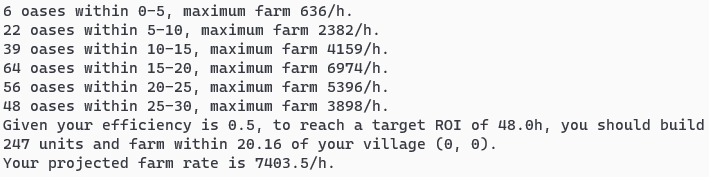
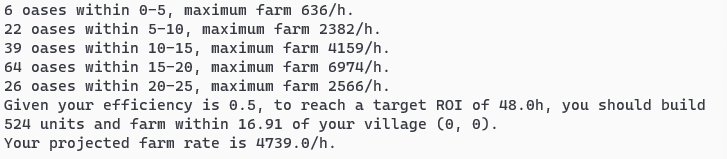
improvement: account for troop upkeep

Changed region(s): [[0.0, 0.1258, 0.9929, 0.9811], [0.0, 0.0252, 0.4965, 0.1006]]

diff --git a/calculator.py b/calculator.py
@@ -20,8 +20,7 @@ def calculate_roi_distance(unit, target_roi, efficiency):
   make that ROI from how fast is the unit and how many trips it must make to
   gather its production cost.
   """
-  trips = unit.cost / unit.carrying_capacity
-  return unit.speed * efficiency * target_roi / (trips * 2)
+  return efficiency * target_roi * unit.speed * unit.carrying_capacity / (2 * unit.cost + 2 * target_roi * unit.upkeep)
 
 
 def calculate_units(farm_map, unit, target_roi, efficiency, include_research):
@@ -36,8 +35,9 @@ def calculate_units(farm_map, unit, target_roi, efficiency, include_research):
   roi_distance = calculate_roi_distance(unit, target_roi, efficiency)
 
   for farm in farm_map.farms:
-    if math.dist(farm.location, farm_map.self_location) <= roi_distance:
-      capacity = farm.production / unit.carrying_capacity
+    farm_distance = math.dist(farm.location, farm_map.self_location)
+    if farm_distance <= roi_distance:
+      capacity = 2 * farm.production * farm_distance / (unit.speed * unit.carrying_capacity)
       units_to_build += capacity
       farm_rate += farm.production * efficiency
 

diff --git a/datamodels.py b/datamodels.py
@@ -36,21 +36,22 @@ class Oasis(Farm):
 
 
 class Troop:
-  def __init__(self, speed, carrying_capacity, cost, research_cost):
+  def __init__(self, speed, carrying_capacity, cost, upkeep, research_cost):
     """
     Initializes a troop.
     """
     self.speed = speed
     self.carrying_capacity = carrying_capacity
     self.cost = cost
+    self.upkeep = upkeep
     self.research_cost = research_cost
 
 
-Troop.LEGIONNAIRE = Troop(6, 50, 400, 0)
-Troop.EQUITES_IMPERATORIS = Troop(14, 100, 1410, 8780)
-Troop.CLUBSWINGER = Troop(7, 60, 250, 0)
-Troop.PHALANX = Troop(7, 35, 315, 0)
-Troop.THEUTATES_THUNDER = Troop(19, 75, 1090, 6660)
+Troop.LEGIONNAIRE = Troop(6, 50, 400, 1, 0)
+Troop.EQUITES_IMPERATORIS = Troop(14, 100, 1410, 3, 8780)
+Troop.CLUBSWINGER = Troop(7, 60, 250, 1, 0)
+Troop.PHALANX = Troop(7, 35, 315, 1, 0)
+Troop.THEUTATES_THUNDER = Troop(19, 75, 1090, 2, 6660)
 
 
 class Map:

diff --git a/README.md b/README.md
@@ -43,6 +43,38 @@ You can also edit the `calculator.py` and pre-populate some fields to save some 
 
 ## :mortar_board: Theory
 
-When we fix the number of hours of the return of investment (ROI), we can calculate the maximum distance a single troop may travel to recuperate its production cost. Given that each farm has finite production and thus we can only send a finite number of troops to it, we can calculate the maximum number of troops to build before any new troop will be not worth it.
+In an ideal scenario, we are the only farmer and all farms never overflow. A farm is characterized by its production rate $P_f$ and distance $D_f$ from the farmer. A troop is characterized by its speed $S_t$, production cost $C_t$, carrying capacity $W_t$, and upkeep $K_t$.
 
-This assumes that all troops are built instantly and all oases are clear of wild animals. This is often not the case. To account for this, you should lower your `efficiency` and/or ROI parameters when running the script.
+It follows that to be able to empty the resources of a farm $f$, we need the following amount of troops per hour:
+
+$$R_f = \frac{P_f}{W_t}$$
+
+A troop is occupied when it is out farming. It spends $2D_f/S_t$ hours on the way. Therefore we need the following amount of troops to exhaust a farm non-stop:
+
+$$N_f = \frac{2R_fD_f}{S_t} = \frac{2P_fD_f}{S_tW_t}$$
+
+This costs $N_fC_t$ to build, and $N_fK_t$ for the crop cost per hour, which we can reduce from $P_f$. Thus the return of investment (ROI) is:
+
+$$T_{\text{ROI}} = \frac{N_fC_t}{P_f-N_fK_t} = \frac{2D_fC_t}{S_tW_t - 2D_fK_t}$$
+
+Note that $T_{\text{ROI}}$ only depends on the farm's distance, and does not depend on its production.
+
+Given a target ROI $T_{\text{Target}}$, we can thus find the maximum distance for a particular type of troop:
+
+$$D_{\text{ROI}} = \frac{T_{\text{Target}}S_tW_t}{2C_t+2T_{\text{Target}}K_t}$$
+
+To find the number of troops to build, we can sum $N_f$ for each farm within $D_{\text{ROI}}$ of the farmer:
+
+$$N = \sum_{f | D_f < D_{\text{ROI}}} N_f$$
+
+The calculation above assumes perfect farm. To account for farming competition from other players, we introduce an efficiency factor $e, 0 < e \le 1$, which represents how much farm we are getting from the sources:
+
+$$T_{\text{ROI}} = \frac{N_fC_t}{eP_f - N_fK_t} = \frac{2D_fC_t}{eS_tW_t - 2D_fK_t}$$
+
+Similarly, $D_{\text{ROI}}$ is now:
+
+$$D_{\text{ROI}} = \frac{eT_{\text{Target}}S_tW_t}{2C_t+2T_{\text{Target}}K_t}$$
+
+As expected, this increases $T_{\text{ROI}}$, which reduces $D_{\text{ROI}}$ and $N$.
+
+The calculation above still assumes that all troops are built instantly and all oases are clear of wild animals. We can again account for this by tuning $e$ when running the script.
